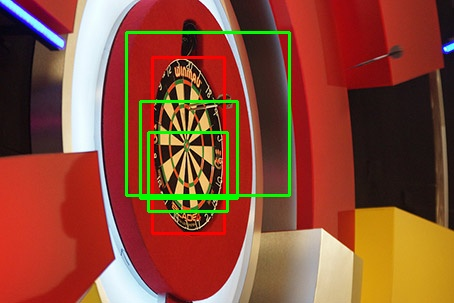
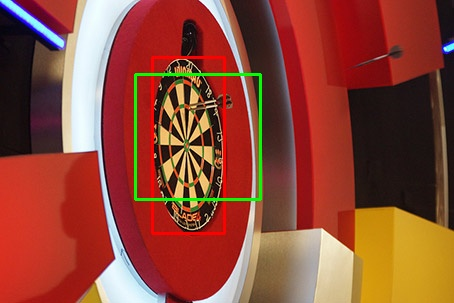
added averaging of found rectangles to prevent overlapping triangles

Changed region(s): [[0.2467, 0.0891, 0.6476, 0.7129]]

diff --git a/f1_darts.cpp b/f1_darts.cpp
@@ -203,7 +203,7 @@ void detectAndDisplay( Mat frame, string num, string file ) {
 	Mat linesGray;
     cvtColor( houghLines, linesGray, CV_BGR2GRAY );
     // hough lines threshold
-    Mat threshLines = threshold(linesGray, 160);
+    Mat threshLines = threshold(linesGray, 140);
 	imwrite("FALO2.jpg", threshLines);
 
 	Mat circlesGray;
@@ -212,12 +212,10 @@ void detectAndDisplay( Mat frame, string num, string file ) {
 	Mat threshCircles = threshold(circlesGray, 140);
 	imwrite("FALO3.jpg", threshCircles);
 
-	/* TODO: 
+	/* 
 	 *	   FIND AVERAGE OF FOUND LINES AND CIRCLES
 	 * 	   FIND IOU OF ALL OTHER RECTANGLES
 	 * 	   IF OVERLAP, FIND AVERAGE WIDTH AND HEIGHT AND CENTRE OF RECTANGLES AND DRAW A NEW ONE BASED ON THOSE
-	 * 
-	 * 
 	 */ 
 
 	// for( int i = 0; i < faces.size(); i++ ) {
@@ -233,16 +231,58 @@ void detectAndDisplay( Mat frame, string num, string file ) {
 	// 	if (counter >= 20) rectangle(frame, Point(faces[i].x, faces[i].y), Point(faces[i].x + faces[i].width, faces[i].y + faces[i].height), Scalar( 0, 255, 0 ), 2);
 	// }
 
+	// Rect is defined at (x,y,width,height)
+	std::vector<Rect> found;
+
 	for( int i = 0; i < faces.size(); i++ ) {
 		int counter = 0;
 		for (int x = faces[i].x; x <= faces[i].x + faces[i].width; x++) {
 			for (int y = faces[i].y; y <= faces[i].y + faces[i].height; y++) {
+				// counts up how many centre pixels are found
 				if (threshLines.at<uchar>(y, x) == 255) {
 					counter++;
 				}
 			}
 		}
 		std::cout << counter << std::endl;
-		if (counter >= 20) rectangle(frame, Point(faces[i].x, faces[i].y), Point(faces[i].x + faces[i].width, faces[i].y + faces[i].height), Scalar( 0, 255, 0 ), 2);
+		// if above threshold, add to list of rectangles
+		if (counter >= 20) {
+			// check if new rectangle overlaps with any others
+			bool isFound = false;
+			Rect temp;
+			for (int j = 0; j < found.size(); j++) {
+				float iou = findIOU(faces[i], found[j]);
+				cout << found.size() << endl;
+				cout << iou << endl;
+				// if overlap is found, break out of for loop and remove the rectangle from the vector
+				if (iou > 0) {
+					isFound = true;
+					temp = found[j];
+					found.erase(found.begin() + j);
+					break;
+				}
+			}
+			// if intersecting rectangles found, find new rectangle which is the average of the 2 found
+			if (isFound == true) {
+				int avgX = (temp.x + faces[i].x) / 2;
+				int avgY = (temp.y + faces[i].y) / 2;
+				int avgWidth = (temp.width + faces[i].width) / 2;
+				int avgHeight = (temp.height + faces[i].height) / 2;
+
+				// create new rectangle and push back to vector
+				Rect avg(avgX, avgY, avgWidth, avgHeight);
+				found.push_back(avg);
+			} else {
+				// if no overlap found, simply push back new rectangle into found vector
+				found.push_back(faces[i]);
+			}
+		}
+	}
+
+	//cout << found.size() << endl;
+
+	// displays found triangles
+	for (int i = 0; i < found.size(); i++) {
+		rectangle(frame, Point(found[i].x, found[i].y), Point(found[i].x + found[i].width, found[i].y + found[i].height), Scalar( 0, 255, 0 ), 2);
 	}
 }
